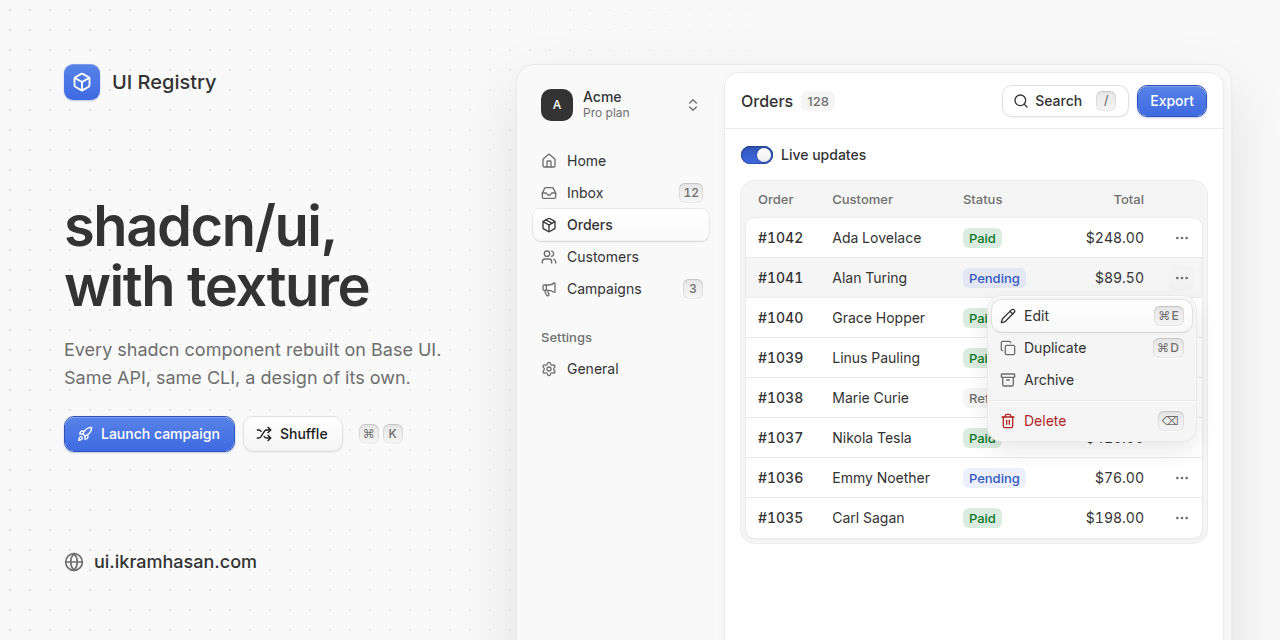
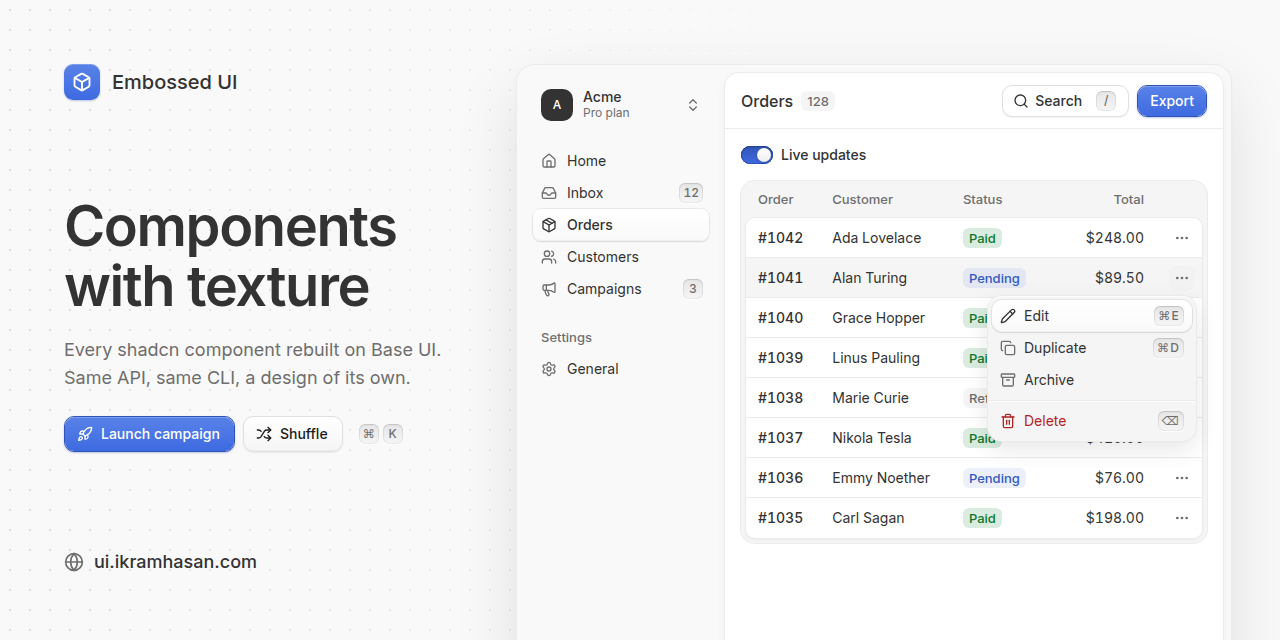
feat: rename the site to Embossed UI
Drop "UI Registry" from the header and metadata, and "shadcn/ui" from
the landing page heading and the banner, so the site doesn't read as
shadcn/ui itself. The heading is now "Components with texture".

Claude-Session: https://claude.ai/code/session_01NuJ9CLti7EYQMG49Vu25NK

Changed region(s): [[0.0312, 0.3125, 0.3125, 0.4062], [0.0938, 0.0938, 0.1875, 0.1562]]

diff --git a/apps/v1/app/(app)/(root)/page.tsx b/apps/v1/app/(app)/(root)/page.tsx
@@ -14,7 +14,7 @@ import { buttonVariants } from "@/registry/ui/button"
 
 import { CardsDemo } from "./cards"
 
-const title = "shadcn/ui, with texture"
+const title = "Components with texture"
 const description =
   "Every shadcn component rebuilt on Base UI, with buttons that protrude and keys that sink in. Same API, same CLI, a design of its own."
 

diff --git a/apps/v1/lib/config.ts b/apps/v1/lib/config.ts
@@ -3,7 +3,7 @@ import { getSiteUrl } from "@/lib/site-url.mjs"
 const url = getSiteUrl()
 
 export const siteConfig = {
-  name: "UI Registry",
+  name: "Embossed UI",
   url,
   registryUrl: `${url}/r`,
   description:

diff --git a/README.md b/README.md
@@ -1,6 +1,6 @@
-# UI Registry
+# Embossed UI
 
-[![UI Registry: shadcn/ui, with texture. ui.ikramhasan.com](apps/v1/public/banner.png)](https://ui.ikramhasan.com)
+[![Embossed UI: components with texture. ui.ikramhasan.com](apps/v1/public/banner.png)](https://ui.ikramhasan.com)
 
 shadcn components rebuilt on [Base UI](https://base-ui.com) with our own design (see `DESIGN.md`), distributed through the [shadcn CLI](https://ui.shadcn.com/docs/registry/getting-started). Each component is a drop-in for its shadcn `base-nova` counterpart: same file name, exports, props, variants, sizes, `data-slot` attributes and Base UI primitive. Only the styling changes.
 

diff --git a/AGENTS.md b/AGENTS.md
@@ -1,4 +1,4 @@
-# UI Registry
+# Embossed UI
 
 ## What we're building
 
